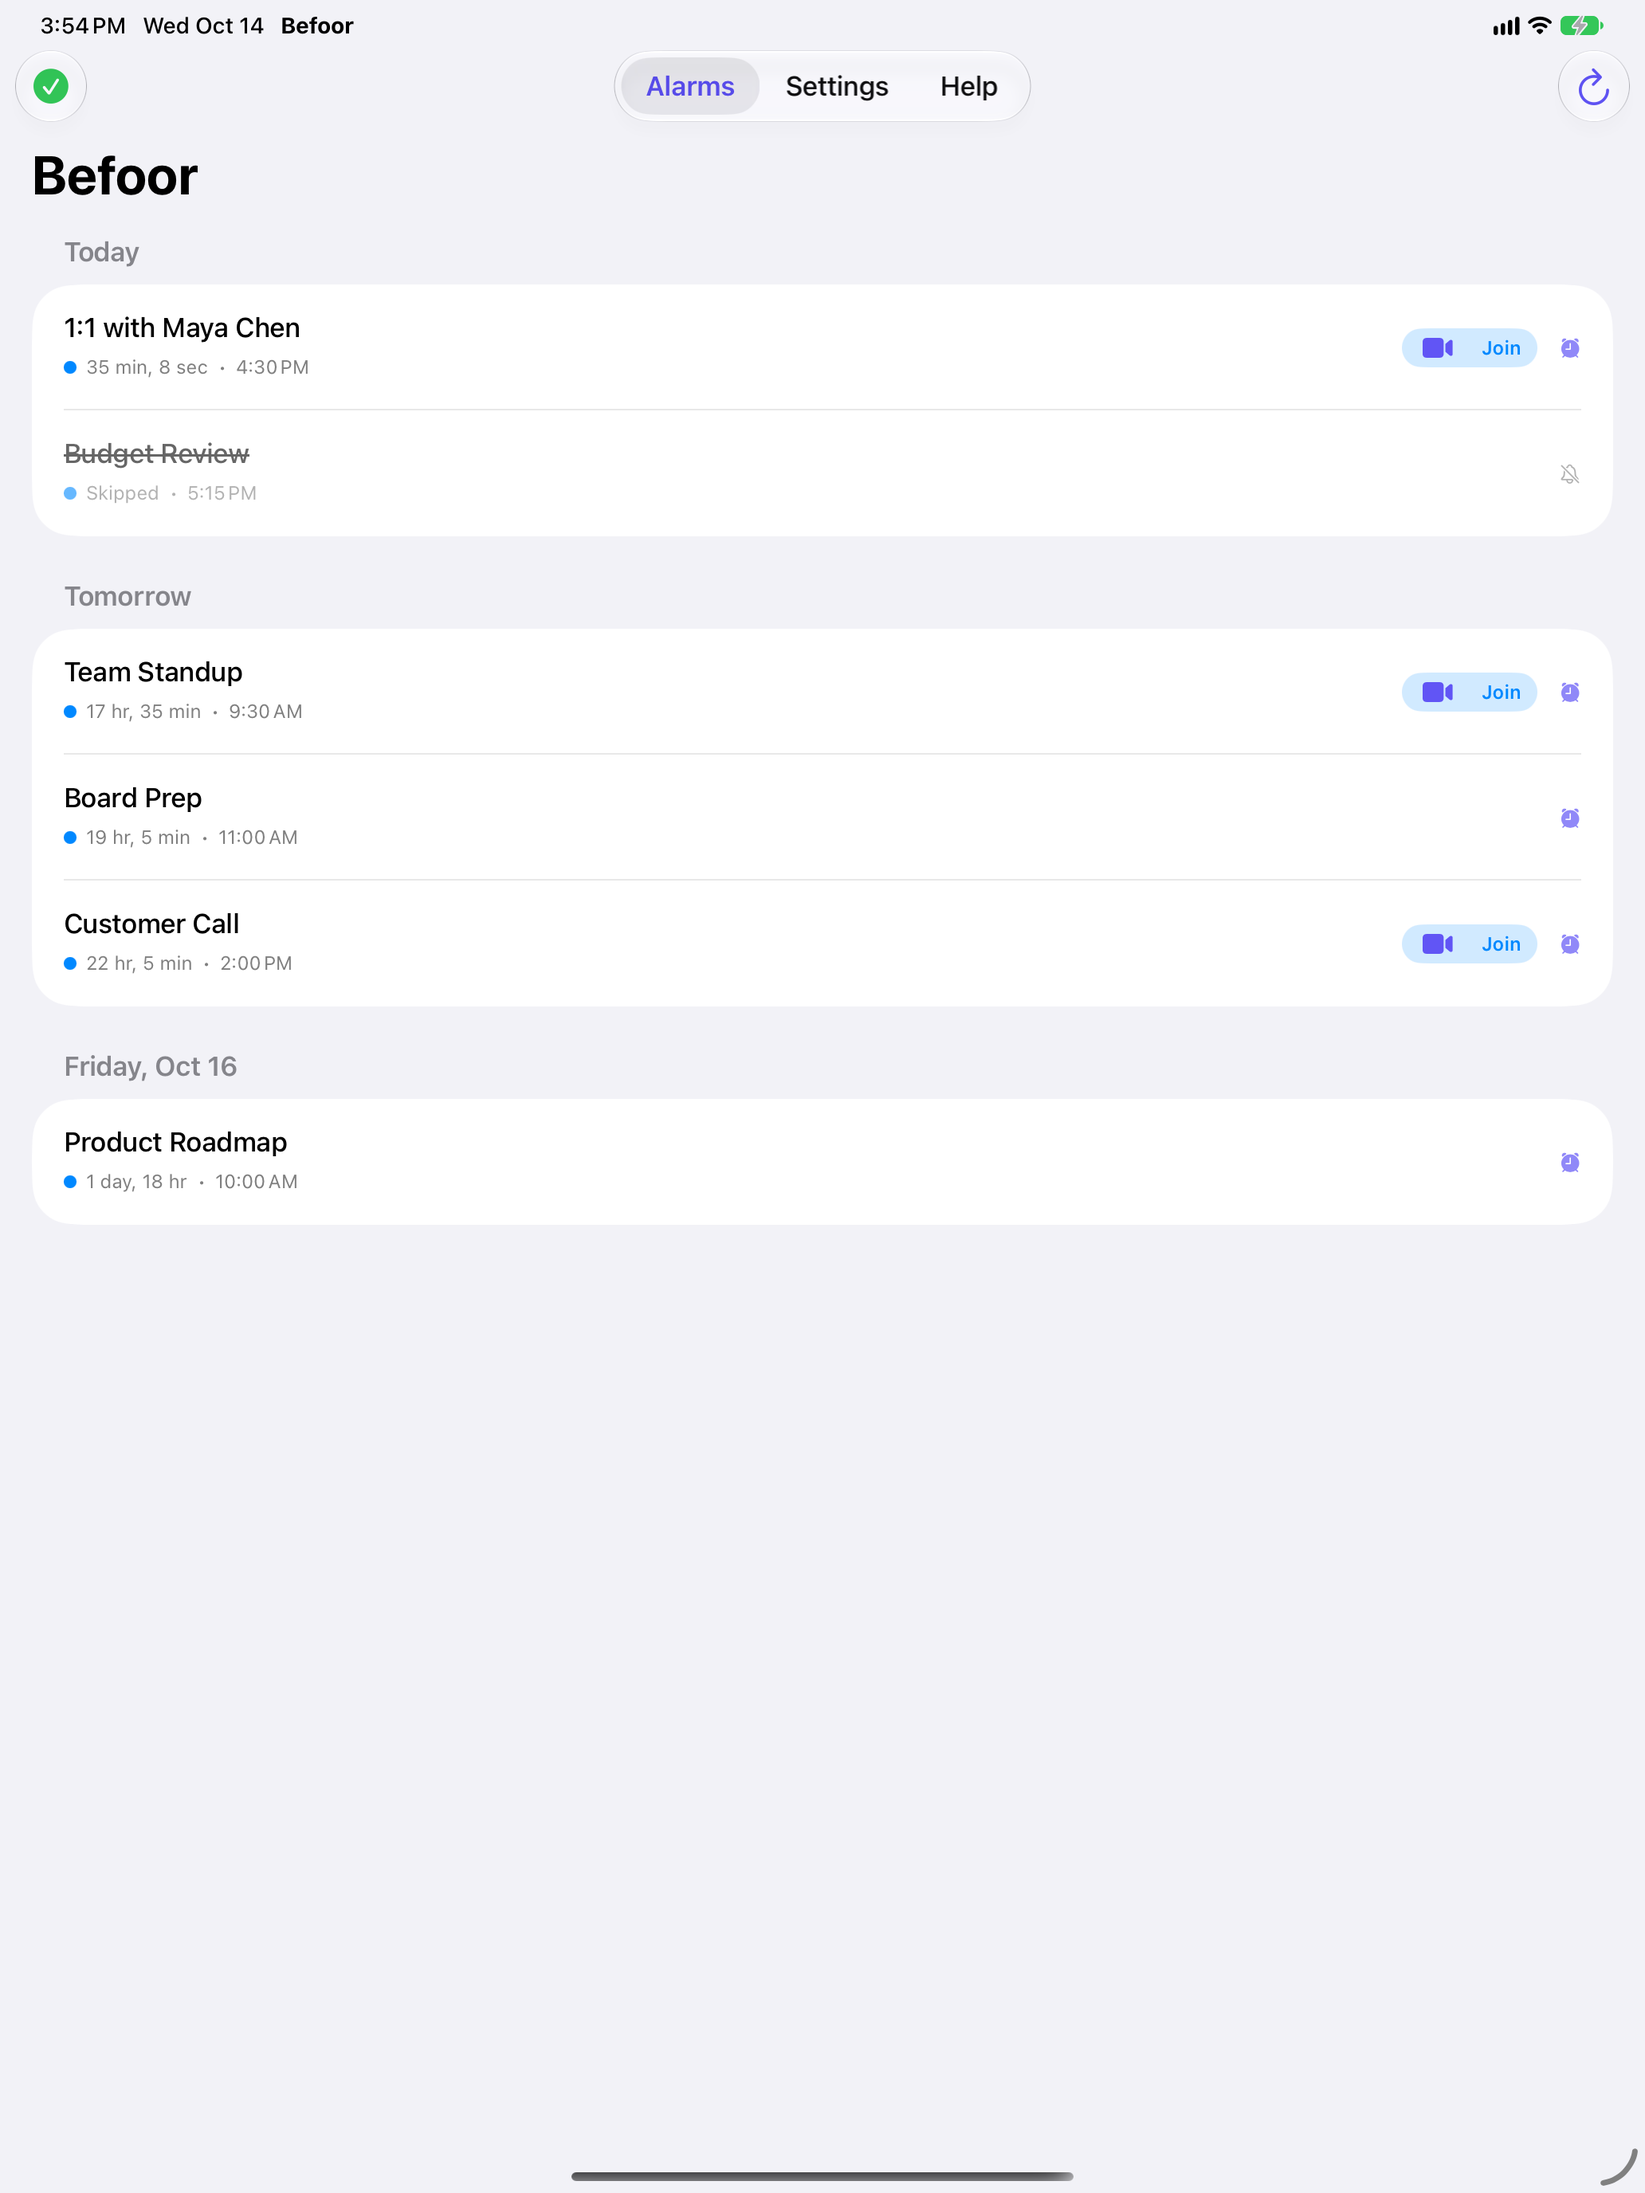
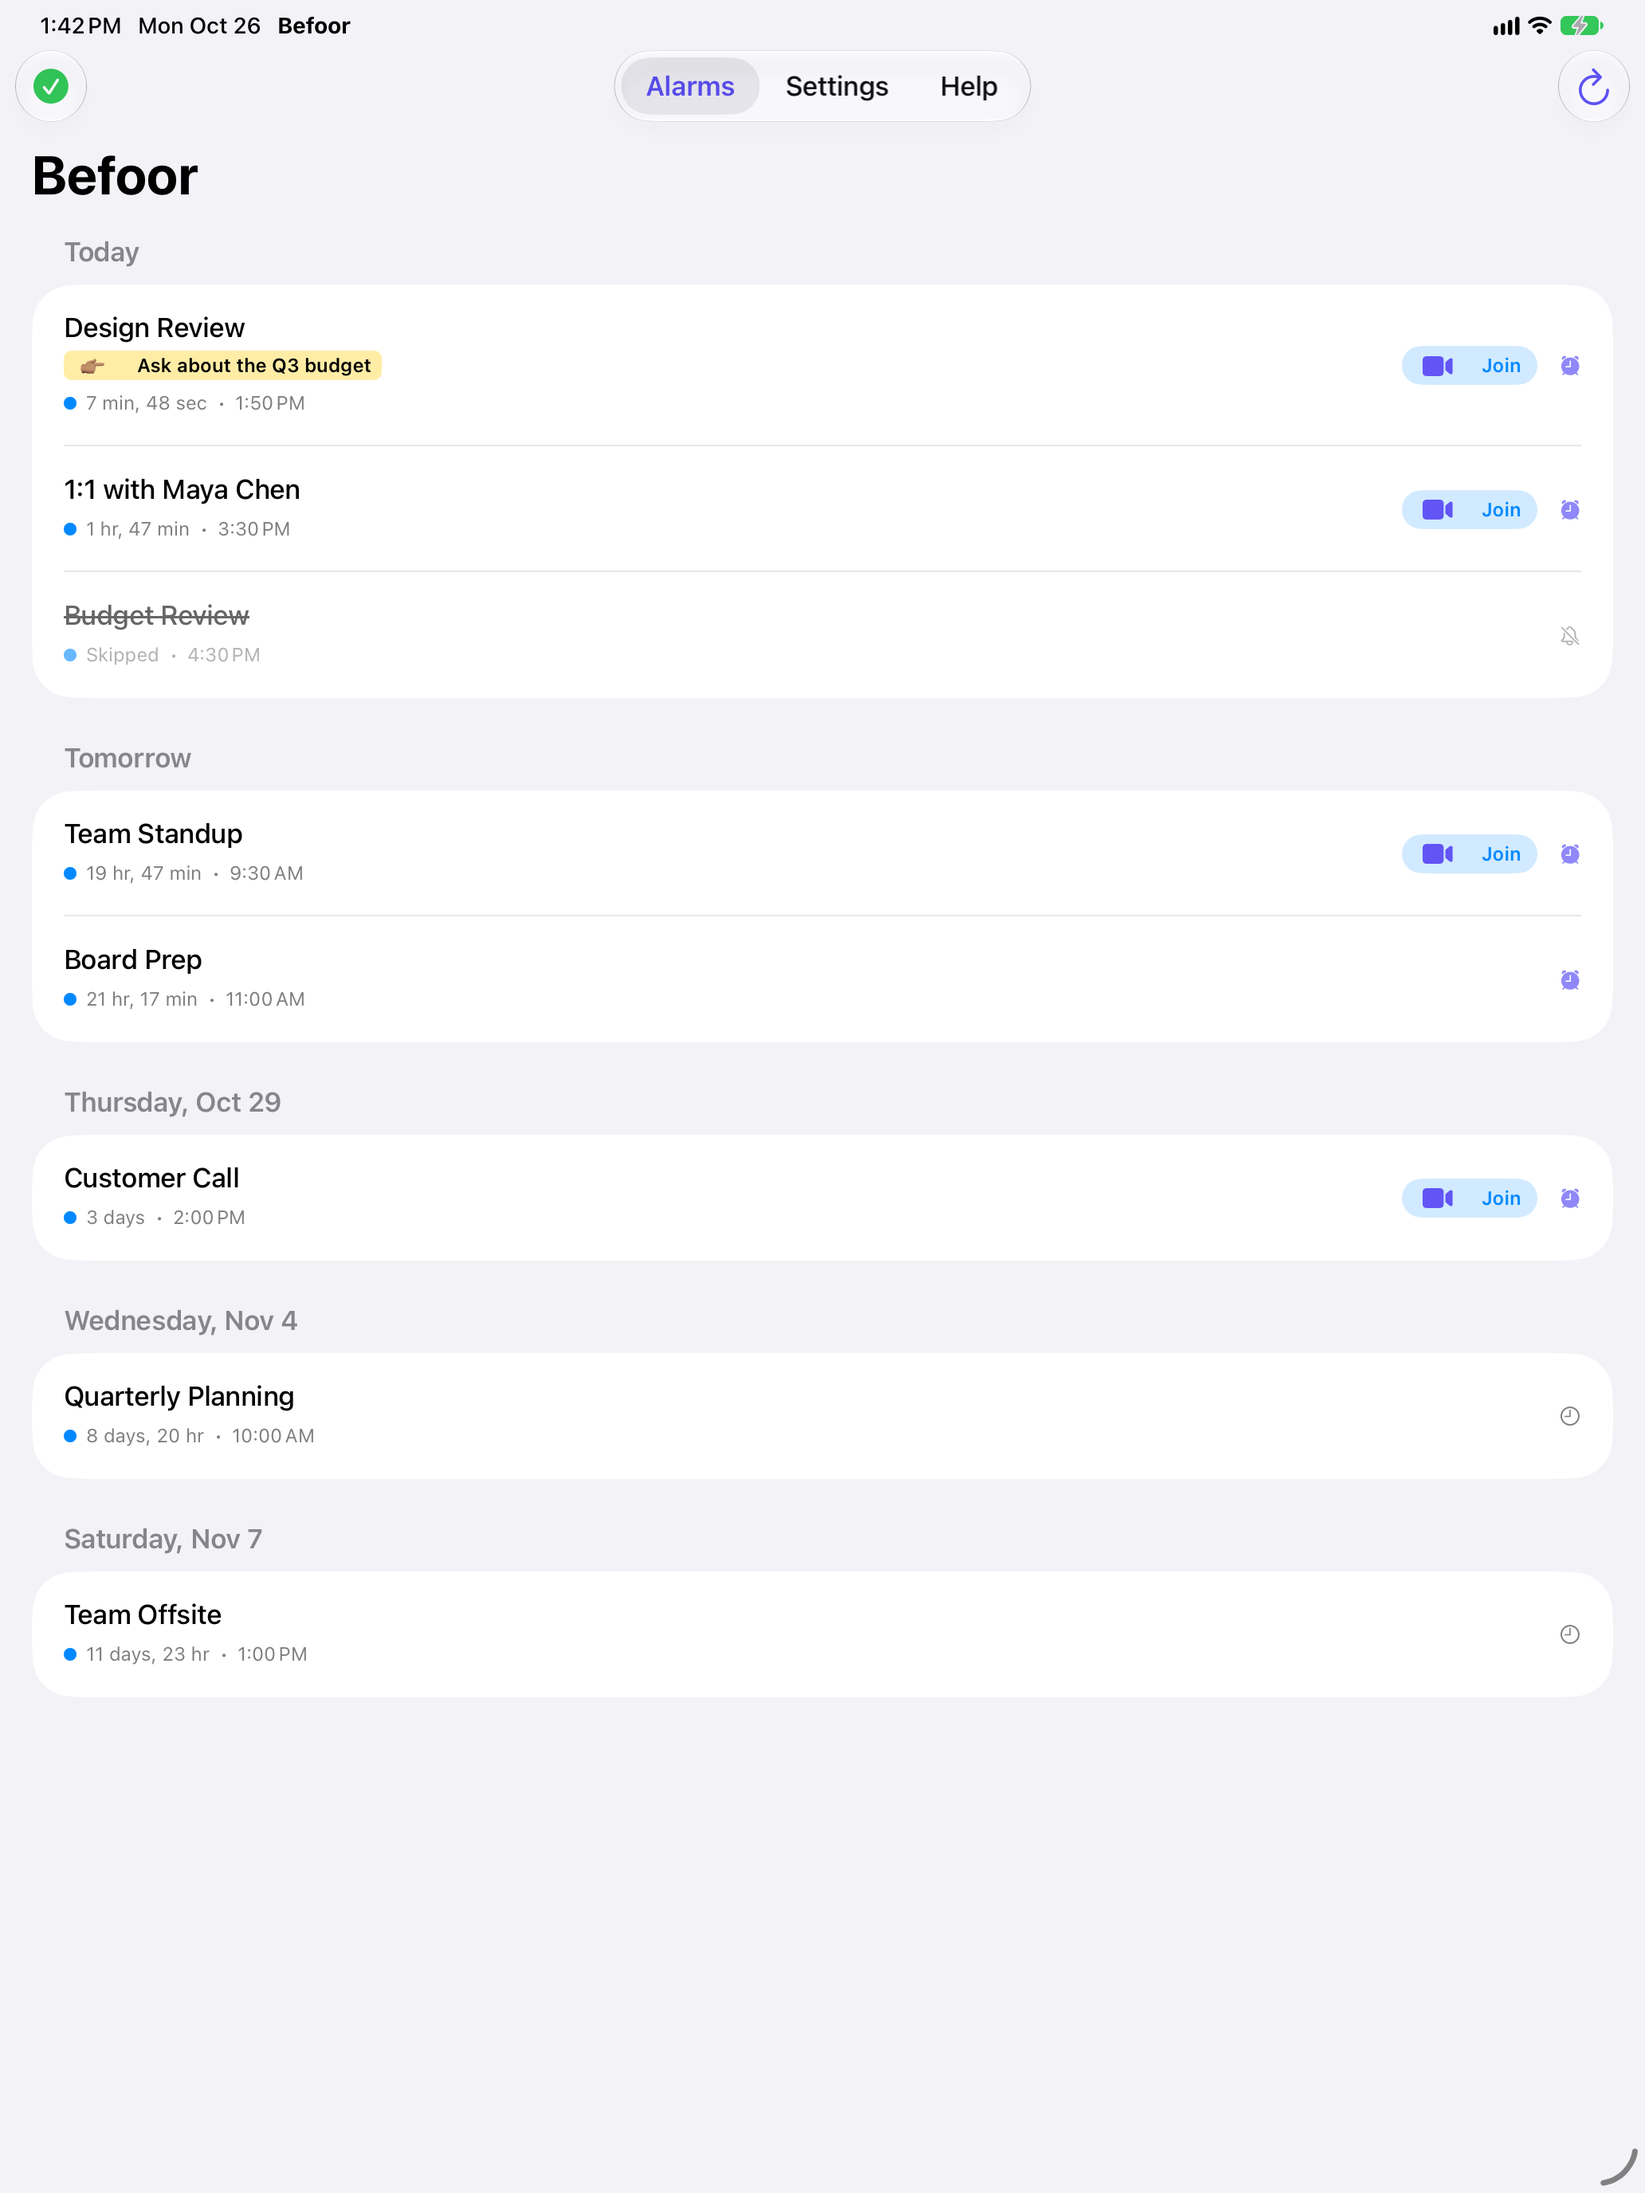
4.5 screenshots; fix "Alarms are off" after onboarding and late-alarm titles; build 36
- The main screen checked alarm permission before onboarding asked for it,
  so new users saw "Alarms are off" until a relaunch; it re-checks when
  onboarding finishes.
- An alarm for a meeting found inside its alert window rings right away but
  was titled with the configured lead ("in 15 minutes" when 10 were left);
  the title now counts from the actual ring time.
- New App Store screenshots: Alarms list with a note, a skipped meeting and
  the two-week range; the Lock Screen countdown card with its note; Settings
  and Help — iPhone and iPad.

diff --git a/Befoor/Services/MeetingAlarms.swift b/Befoor/Services/MeetingAlarms.swift
@@ -379,10 +379,13 @@ final class MeetingAlarms {
         countingDown: Bool = false
     ) -> AlarmManager.AlarmConfiguration<MeetingAlarmMetadata> {
         let title: String
-        switch request.minutesBefore {
+        // From when it actually rings: a meeting found late rings right away, and
+        // shouldn't say "in 15 minutes" when it's 10 minutes off.
+        let minutesBefore = max(0, Int((request.eventStart.timeIntervalSince(ringAt) / 60).rounded()))
+        switch minutesBefore {
         case 0:  title = String(localized: "\(request.eventTitle) is starting")
         case 1:  title = String(localized: "\(request.eventTitle) in 1 minute")
-        default: title = String(localized: "\(request.eventTitle) in \(request.minutesBefore) minutes")
+        default: title = String(localized: "\(request.eventTitle) in \(minutesBefore) minutes")
         }
 
         let snooze = AlarmButton(text: "Snooze", textColor: .white, systemImageName: "zzz")

diff --git a/Befoor/Views/ContentView.swift b/Befoor/Views/ContentView.swift
@@ -85,6 +85,11 @@ struct ContentView: View {
         )) {
             OnboardingView()
         }
+        // Onboarding asks for alarms after this screen first checked, so check
+        // again when it finishes (else "Alarms are off" shows until a relaunch).
+        .onChange(of: settings.hasCompletedOnboarding) { _, done in
+            if done { refreshAlarmStatus() }
+        }
     }
 
     // MARK: - Alarms Tab
